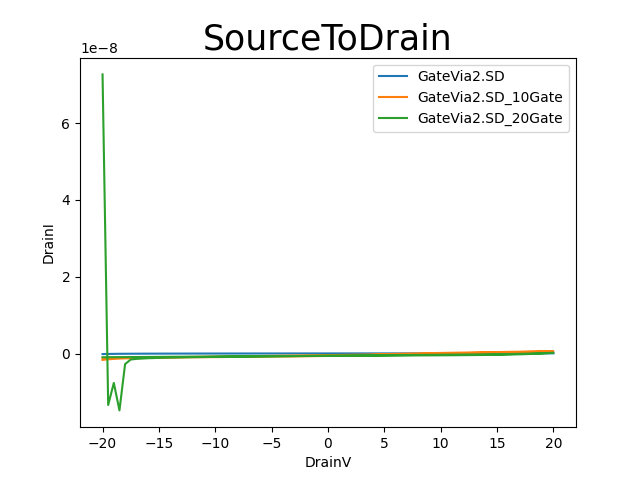
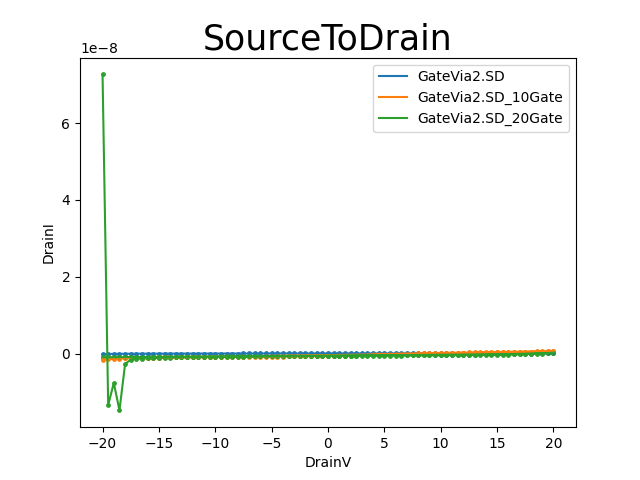
why no ignore?

Changed region(s): [[0.1562, 0.7188, 0.875, 0.7812]]

diff --git a/setup_files/plot.py b/setup_files/plot.py
@@ -8,7 +8,7 @@ from matplotlib import pyplot as plt
 from setup_files import parameters as parameters
 
 
-def plot(filename,foldername,Xaxisname,Yaxisname,log,title):
+def plot(filename,foldername,Xaxisname,Yaxisname,log,title,arrow):
 
     for filename in filename:
         ld = pd.read_csv('./setup_files/data/'+foldername +'/' + filename +'.CSV',engine='python',header=0)
@@ -32,7 +32,31 @@ def plot(filename,foldername,Xaxisname,Yaxisname,log,title):
         plt.ylabel(Yaxisname)
         if log == True:
             plt.yscale('log')
-        plt.plot(V,log_I,label=filename)
+
+        line = plt.plot(V,log_I,label=filename)[0]
+
+        # plot arrow on each line:
+        if arrow == True:
+            x = V
+            y = I
+
+            # calculate position and direction vectors:
+            x0 = x.iloc[range(len(x)-1)].values
+            x1 = x.iloc[range(1,len(x))].values
+            y0 = y.iloc[range(len(y)-1)].values
+            y1 = y.iloc[range(1,len(y))].values
+            xpos = (x0+x1)/2
+            ypos = (y0+y1)/2
+            xdir = x1-x0
+            ydir = y1-y0
+
+            for X,Y,dX,dY in zip(xpos, ypos, xdir, ydir):
+                plt.annotate("", xytext=(X,Y),xy=(X+0.001*dX,Y+0.001*dY), 
+                arrowprops=dict(arrowstyle="fancy",color=line.get_color()), size = 6)
+
+        else:
+            plt.scatter(V,log_I, s=6)
+
         y2=np.array(log_I)
         plt.legend()
         z2=[]

diff --git a/run.py b/run.py
@@ -53,16 +53,16 @@ folder_name = '20210715'
 # gate to gate                GateV    GateI
 # gate on, source to drain    GateV    DrainI
 
-# plot -> filename, foldername, Xaxisname, Yaxisname, log (Ture or False), title(graph name)
+# plot -> filename, foldername, Xaxisname, Yaxisname, log (Ture or False), title(graph name), arrow (True or False)
 
 # 함수 적으면 실행
 
-plot.plot(ss_name,folder_name,'DrainV','DrainI',False,'SourceToSource')
-plot.plot(sd_name,folder_name,'DrainV','DrainI',False,'SourceToDrain')
-plot.plot(gate_name,folder_name,'GateV','GateI',False,'GateToGate')
-plot.plot(sdg_name_,folder_name,'GateV','DrainI',False,'SourceToDrain,GateOn')
-plot.plot(refer_name,folder_name,'GateV','DrainI',True,'References_250_1')
-plot.plot(refer_2_name,folder_name,'GateV','DrainI',True,'References_250_2')
+plot.plot(ss_name,folder_name,'DrainV','DrainI',False,'SourceToSource',False)
+plot.plot(sd_name,folder_name,'DrainV','DrainI',False,'SourceToDrain',False)
+plot.plot(gate_name,folder_name,'GateV','GateI',False,'GateToGate',False)
+plot.plot(sdg_name_,folder_name,'GateV','DrainI',False,'SourceToDrain,GateOn',True)
+plot.plot(refer_name,folder_name,'GateV','DrainI',True,'References_250_1',True)
+plot.plot(refer_2_name,folder_name,'GateV','DrainI',True,'References_250_2',True)
     
     
 
